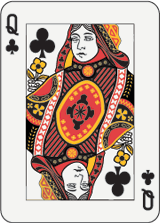
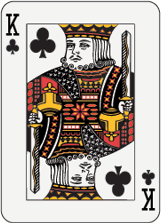
Working version wit console.logs

diff --git a/app/index.js b/app/index.js
@@ -8,19 +8,22 @@ angular.module('Patience.app', ['ngRoute'])
     controllerAs: 'vm'
   });
 }])
-.controller('IndexCtrl', ['$timeout', '$interval', function($timeout, $interval) {
+.controller('IndexCtrl', ['$timeout', '$interval', '$route', function($timeout, $interval, $route) {
 	var vm = this;
 	
 	vm.name = "Patience";
+	
+	$('.card').remove();
 	
 	var zIndex = 100;
 	var cards = [];
 	var spread = [];
 	var nr = 0;
-	['klaver','schoppen','ruiten','harten'].forEach(function(color) {
+	// 0 = klaver, schoppen = 2, ruiten = 1, harten = 3
+	[0, 2, 1, 3].forEach(function(type) {
 		for (var value = 1; value <= 13; value++) {
 			const id = nr++;
-			cards.push({id: id, value: value, color: color, turned: false});
+			cards.push({id: id, value: value, type: type, turned: false});
 			spread.push(cards.length - 1);
 		}
 	});
@@ -43,7 +46,14 @@ angular.module('Patience.app', ['ngRoute'])
 		const card = cards[spread[spreadNr]];
 		spread.splice(spreadNr, 1);
 		var cardElement = createCard(card, 14, spread.length).css('top', '1.5em').css('left', '61.5em').css('z-index', zIndex--);
+		cardElement.css({'background-image': 'url(/images/card_back.png)'});
 		$(document.body).append(cardElement);
+	}
+	
+	vm.showButton = false;
+	vm.buttonText = 'HOERA !!  U heeft gewonnen! Druk op de knop voor een nieuw spelletje.';
+	vm.buttonAction = function() {
+		$route.reload();
 	}
 	
 	function rePile() {
@@ -60,11 +70,7 @@ angular.module('Patience.app', ['ngRoute'])
 		card.pile = pile;
 		card.position = position;
 		var cardElement = $('<div>').attr('id', card.id).addClass('card');
-		cardElement.css('background-color', card.turned ? '#DDFFEE' : '#448888');
-//		if (card.id == 13) {
-//			cardElement.append($('<img>').attr({'src': '/images/card_12.png', 'width':'100em'}));
-//		}
-		cardElement.append(card.color + ' ' + card.value);
+		cardElement.css({'background-image':  card.turned ? 'url(/images/card_' + card.id + '.png)' : 'url(/images/card_back.png)'});
 		cardElement.click(function () {
 			cardClick(card);
 		});
@@ -124,6 +130,7 @@ angular.module('Patience.app', ['ngRoute'])
 									console.log('GAME OVER');
 									$interval.cancel(promise);
 									turnedStockCardSuccess = true;
+									vm.showButton = true;
 									return;
 								} else {
 									console.log('Turns on stockCard ', stockCard);
@@ -163,6 +170,7 @@ angular.module('Patience.app', ['ngRoute'])
 				}
 			});
 			moveCardToPile(card, 13, position);
+			replaced = true;
 
 			var leeg = true;
 			cards.forEach(function (pileCard) {
@@ -187,7 +195,7 @@ angular.module('Patience.app', ['ngRoute'])
 					}
 				});
 				// First check match for final (first four) piles. Value and type should match.
-				if (pile <= 4 && ((!upperCard && card.value === 1) || (upperCard && upperCard.value === card.value - 1))) {
+				if (pile <= 4 && ((!upperCard && card.value === 1) || (upperCard && upperCard.value === card.value - 1 && upperCard.type === card.type))) {
 					replaced = true;
 					
 					cards.forEach(function (pileCard) {
@@ -197,7 +205,8 @@ angular.module('Patience.app', ['ngRoute'])
 					});
 				}
 				// Then check match for working piles (<= 7) Value and color should match.
-				if (!finalPilesOnly && pile > 4 && pile <= 11 && ((!upperCard && card.value === 13) || (upperCard && upperCard.value === card.value + 1))) {
+				if (!finalPilesOnly && pile > 4 && pile <= 11 && ((!upperCard && card.value === 13) || 
+						(upperCard && upperCard.value === card.value + 1 && upperCard.type % 2 != card.type % 2))) {
 					replaced = true;
 				}
 				if (replaced) {
@@ -206,7 +215,7 @@ angular.module('Patience.app', ['ngRoute'])
 							pileCard.turned = true;
 							var pileCardElement = $('#' + pileCard.id);
 							$timeout(function () { // Turning has to wait until card has been moved.
-								pileCardElement.css('background-color', '#DDFFEE');
+								pileCardElement.css({'background-image': 'url(/images/card_' + pileCard.id + '.png)'});
 							}, 1000);
 						}
 						if (card.pile > 4 && card.pile < 12 && pileCard.pile === card.pile && pileCard.position > card.position) {
@@ -218,6 +227,9 @@ angular.module('Patience.app', ['ngRoute'])
 				}
 				pile++;
 			}
+		}
+		if (!replaced) {
+			$('#' + card.id).effect('shake');
 		}
 		return replaced;
 	}
@@ -237,7 +249,8 @@ angular.module('Patience.app', ['ngRoute'])
 		cardElement.animate({left: 10 * left + 1.5 + 'em', top: 2 * (pile > 4 && pile < 12 ? pileOffset - 5 : 0) + (pile > 4 && pile < 12 ? 24.5 : 1.5) + 'em'});
 //		cardElement.css('z-index', position + 1);
 		cardElement.animate({zIndex: position + 1});
-		cardElement.css('background-color', card.turned ? '#DDFFEE' : '#448888');
+//		cardElement.css('background-color', card.turned ? '#DDFFEE' : '#448888');
+		cardElement.css({'background-image':  card.turned ? 'url(/images/card_' + card.id + '.png)' : 'url(/images/card_back.png)'});
 	}
 	
 	function findUpperCardOfPile(pile) {

diff --git a/index.css b/index.css
@@ -4,12 +4,12 @@ div.piles-area {
 }
 
 div.play-area {
-	margin-top: 3em;
+	margin-top: 2em;
 }
 
 div.card-area {
 	width: 8em;
-	height: 10em;
+	height: 11em;
 	margin: 1em;
 	border-radius: 1em;
 	background-color: silver;
@@ -21,14 +21,21 @@ div.right-pile {
 
 div.card {
 	position: absolute;
-	width: 5.2em;
-	height: 8em;
-	border-radius: 1em;
-	border: black 0.5em solid;
-	padding: 0.5em 1em;
-	background-color: aqua;
+	width: 8em;
+	height: 12.2em;
+	background-size: 100%;
+	background-repeat: no-repeat;
 }
 
 div.card-area.invisible {
 	background-color: white;
+}
+
+input.message-button {
+	margin: 2em 0 0 20em;;
+	padding: 1em;
+	border-radius: 1em;
+	background-color: lime;
+	color:green;
+	font-weight: bold;
 }

diff --git a/index.html b/index.html
@@ -8,6 +8,7 @@
 	    <script src="node_modules/angular/angular.js"></script>
 		<script src="node_modules/angular-route/angular-route.js"></script>
 		<script src="https://ajax.googleapis.com/ajax/libs/jquery/3.3.1/jquery.min.js"></script>
+		<script src="//code.jquery.com/ui/1.11.4/jquery-ui.js"></script>
 		<link rel="stylesheet" href="index.css">
 		<script src="index.js"></script>
 		<script src="app/index.js"></script>

diff --git a/app/index.html b/app/index.html
@@ -19,5 +19,7 @@
 		<div id="pile-10" class="card-area"></div>
 		<div id="pile-11" class="card-area"></div>
 	</div>
+	
+	<input type="button" class="message-button" ng-show="vm.showButton" value="{{vm.buttonText}}" ng-click="vm.buttonAction()"></input>
 
 </div>
